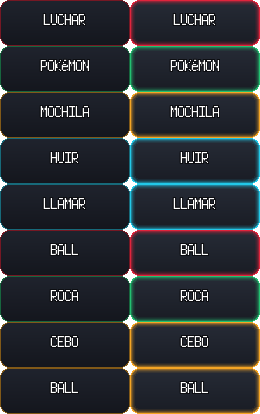
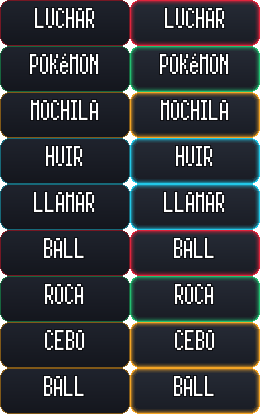
UI de combate: tipografía estrecha unificada, ayuda 'Tecla D: info', tarjeta recentrada y métricas de sprite corregidas

diff --git a/tools/scripts_dump/rem_ui.rb b/tools/scripts_dump/rem_ui.rb
@@ -246,20 +246,20 @@ class PokemonDataBox
     base=PokeBattle_SceneConstants::BOXTEXTBASECOLOR
     shadow=PokeBattle_SceneConstants::BOXTEXTSHADOWCOLOR
     bx=@spritebaseX
-    pbSetSmallFont(self.bitmap)
+    pbSetNarrowFont(self.bitmap)
     name=@battler.name
-    self.bitmap.font.size=21 if self.bitmap.text_size(name).width>104
+    self.bitmap.font.size=26 if self.bitmap.text_size(name).width>112
     namew=self.bitmap.text_size(name).width
-    textpos=[[name,bx+10,7,false,base,shadow]]
+    textpos=[[name,bx+10,3,false,base,shadow]]
     case @battler.displayGender
-    when 0 then textpos.push([_INTL("♂"),bx+14+namew,7,false,Color.new(110,170,255),shadow])
-    when 1 then textpos.push([_INTL("♀"),bx+14+namew,7,false,Color.new(255,120,160),shadow])
+    when 0 then textpos.push([_INTL("♂"),bx+14+namew,3,false,Color.new(110,170,255),shadow])
+    when 1 then textpos.push([_INTL("♀"),bx+14+namew,3,false,Color.new(255,120,160),shadow])
     end
     pbDrawTextPositions(self.bitmap,textpos)
-    pbSetSmallFont(self.bitmap)
-    textpos=[[_INTL("Nv{1}",@battler.level),bx+196,7,true,base,shadow]]
+    pbSetNarrowFont(self.bitmap)
+    textpos=[[_INTL("Nv{1}",@battler.level),bx+196,3,true,base,shadow]]
     if @showhp
-      textpos.push([_ISPRINTF("{1: 2d}/{2: 2d}",self.hp,@battler.totalhp),bx+196,46,true,base,shadow])
+      textpos.push([_ISPRINTF("{1: 2d}/{2: 2d}",self.hp,@battler.totalhp),bx+196,43,true,base,shadow])
     end
     pbDrawTextPositions(self.bitmap,textpos)
     imagepos=[]
@@ -314,9 +314,9 @@ class FightMenuButtons
   def refresh(index,moves,megaButton,ultraButton)
     rem_orig_refresh(index,moves,megaButton,ultraButton)
     return if !moves
-    pbSetSmallFont(self.bitmap)
-    self.bitmap.font.size=16
-    pbDrawTextPositions(self.bitmap,[[_INTL("Tecla D / Z: info"),448,UPPERGAP+70,2,
+    pbSetNarrowFont(self.bitmap)
+    self.bitmap.font.size=22
+    pbDrawTextPositions(self.bitmap,[[_INTL("Tecla D: info"),448,UPPERGAP+64,2,
        REM_UI::SILVER,REM_UI::INK]])
     pbSetNarrowFont(self.bitmap)
   end
@@ -326,7 +326,7 @@ class PokeBattle_Scene
   def pbRemMoveInfo(move)
     vp=Viewport.new(0,0,Graphics.width,Graphics.height); vp.z=99999
     sp=BitmapSprite.new(320,140,vp)
-    sp.x=96; sp.y=100   # centro, bajo la caja del rival y sin tocar el borde superior
+    sp.x=96; sp.y=112   # centro-superior: bajo la caja del rival y lejos del borde superior
     bmp=sp.bitmap
     card=AnimatedBitmap.new("Graphics/Pictures/battleMoveInfo")
     bmp.blt(0,0,card.bitmap,Rect.new(0,0,320,140))
@@ -334,19 +334,20 @@ class PokeBattle_Scene
     types=AnimatedBitmap.new(_INTL("Graphics/Pictures/types"))
     bmp.stretch_blt(Rect.new(250,5,58,24),types.bitmap,Rect.new(0,move.type*28,64,28))
     types.dispose
-    pbSetSmallFont(bmp)
+    pbSetNarrowFont(bmp)
+    bmp.font.size=24
     cat=move.pbIsStatus? ? _INTL("Estado") : (move.pbIsPhysical?(move.type) ? _INTL("Físico") : _INTL("Especial"))
     pw=move.basedamage>0 ? move.basedamage.to_s : "—"
     ac=move.accuracy>0 ? move.accuracy.to_s : "—"
     base=Color.new(255,255,255); dim=REM_UI::SILVER; shadow=REM_UI::INK
     pbDrawTextPositions(bmp,[
-      [move.name,12,3,0,base,shadow],
-      [_INTL("{1}  Pot {2}  Prec {3}  PP {4}/{5}",cat,pw,ac,move.pp,move.totalpp),12,38,0,dim,shadow]])
+      [move.name,12,1,0,base,shadow],
+      [_INTL("{1}  Pot {2}  Prec {3}  PP {4}/{5}",cat,pw,ac,move.pp,move.totalpp),12,37,0,dim,shadow]])
     lines=REM_UI.wrap(bmp,pbGetMessage(MessageTypes::MoveDescriptions,move.id),296)
     lines=lines[0,3]
     textpos=[]
     for i in 0...lines.length
-      textpos.push([lines[i],12,64+i*22,0,base,shadow])
+      textpos.push([lines[i],12,63+i*24,0,base,shadow])
     end
     pbDrawTextPositions(bmp,textpos)
     loop do
@@ -387,4 +388,35 @@ def adjustBattleSpriteY(sprite,species,index,metrics=nil)
   ret=rem_orig_adjustBattleSpriteY(sprite,species,index,metrics)
   ret+=sprite.remTrimY if sprite.respond_to?(:remTrimY)
   return ret
+end
+
+# Las métricas de PBS/metrics.dat (Y del jugador/rival) estaban calibradas para los sprites estándar y
+# hundían a los sprites nuevos (p. ej. +48 px en Bulbasaur). Como ahora cada sprite se apoya por su
+# arte real, solo se conserva la altitud de los rivales voladores (acotada).
+def getBattleSpriteMetricOffset(species,index,metrics=nil)
+  return 0 if index!=1 && index!=3
+  metrics=load_data("Data/metrics.dat") if !metrics
+  alt=(metrics[2][species] || 0)*2
+  alt=32 if alt>32
+  return -alt
+end
+
+# Tipografía única en combate: la fuente estrecha de los nombres de ataque, también en mensajes y menús.
+class PokeBattle_Scene
+  alias rem_orig_pbStartBattle pbStartBattle
+  def pbStartBattle(battle)
+    if !$remBattleFontSaved
+      $remBattleFontSaved=MessageConfig.pbGetSystemFontName
+      MessageConfig.pbSetSystemFontName(pbNarrowFontName)
+    end
+    rem_orig_pbStartBattle(battle)
+  end
+  alias rem_orig_pbEndBattle pbEndBattle
+  def pbEndBattle(result)
+    rem_orig_pbEndBattle(result)
+    if $remBattleFontSaved
+      MessageConfig.pbSetSystemFontName($remBattleFontSaved)
+      $remBattleFontSaved=nil
+    end
+  end
 end

diff --git a/tools/ui/gen_oniria_noir.py b/tools/ui/gen_oniria_noir.py
@@ -146,7 +146,7 @@ def make_fight():
     save(im, "battleFight")
 
 # ------------------------------------------------------------------ botones
-FONT = os.path.join(ROOT, "Fonts", "pkmnem.ttf")
+FONT = os.path.join(ROOT, "Fonts", "pkmnemn.ttf")
 
 def rrect_mask(w, h, r):
     m = Image.new("L", (w, h), 0); ImageDraw.Draw(m).rounded_rectangle((0, 0, w-1, h-1), radius=r, fill=255); return m
@@ -176,7 +176,7 @@ def rrect_and_shrink(mask, n, r):
     ImageDraw.Draw(m).rounded_rectangle((n, n, w-1-n, h-1-n), radius=max(r-n, 1), fill=255)
     return m
 
-def label(im, text, x0, w, h, size=16):
+def label(im, text, x0, w, h, size=27):
     f = ImageFont.truetype(FONT, size); d = ImageDraw.Draw(im)
     tw = d.textlength(text, font=f); tx = x0 + (w - tw) / 2; ty = (h - size) / 2 - 2
     for dx, dy in ((1, 1), (0, 1), (1, 0), (-1, 0), (0, -1), (-1, -1), (1, -1), (-1, 1)):
